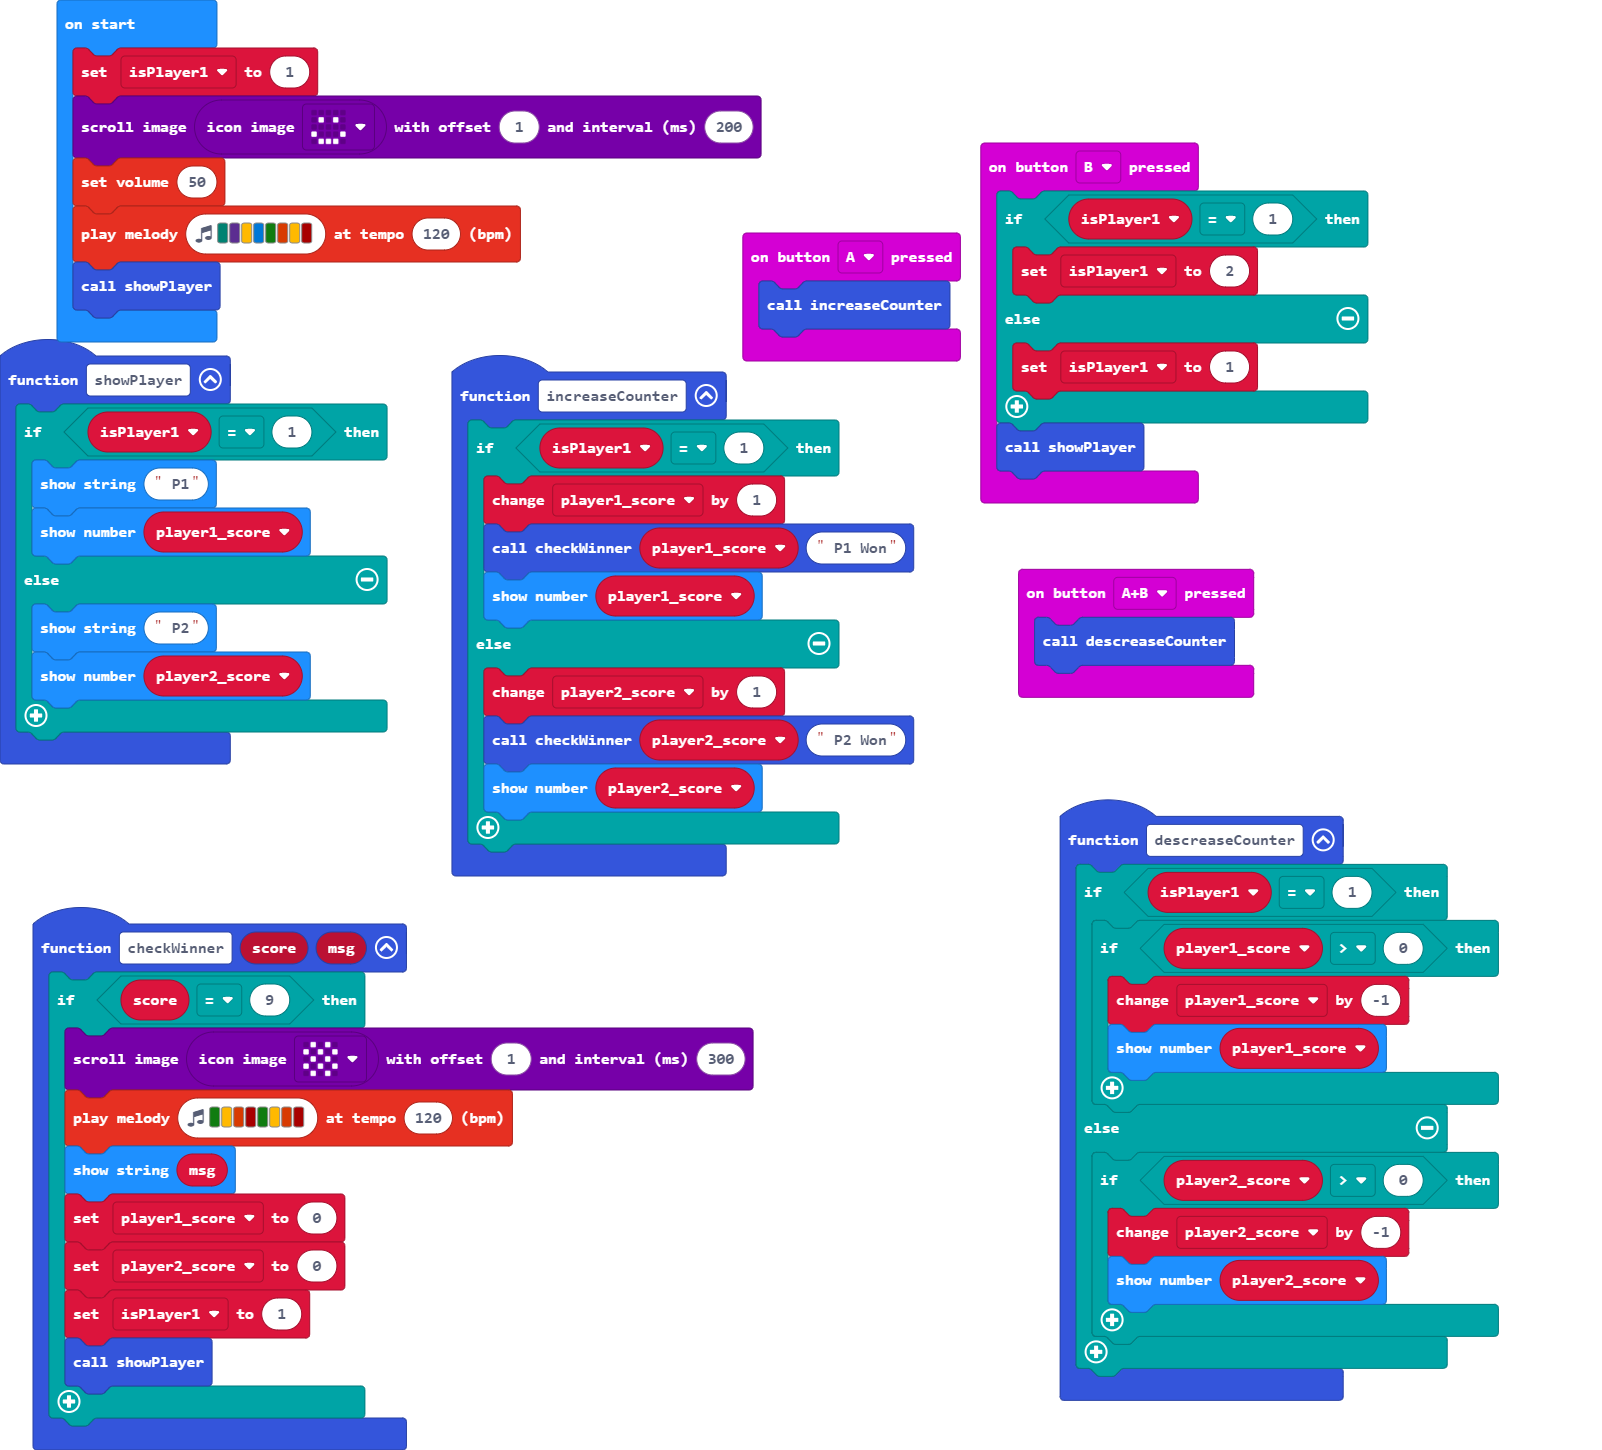
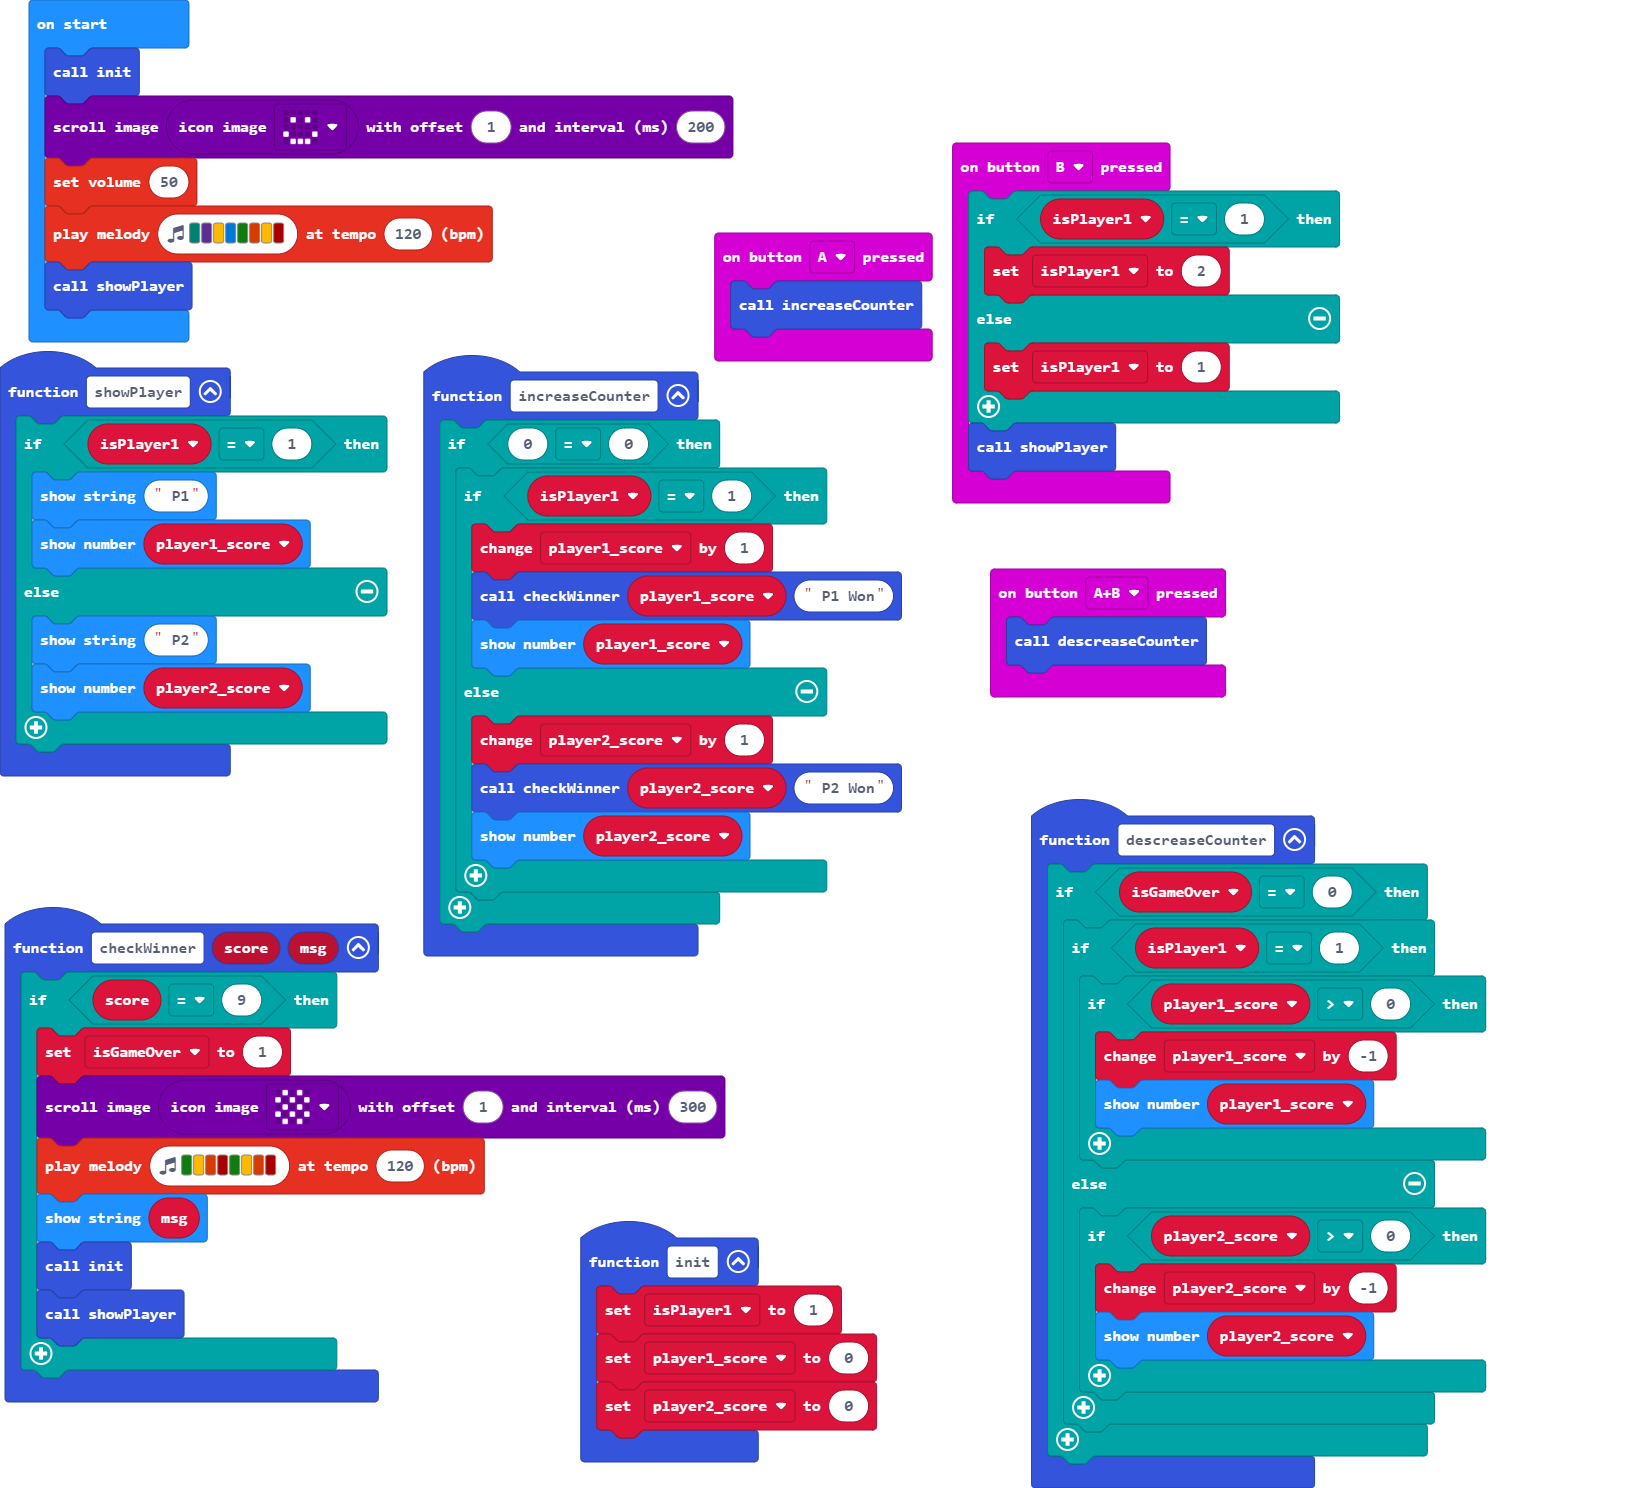
update

diff --git a/main.ts b/main.ts
@@ -1,41 +1,49 @@
 function descreaseCounter () {
-    if (isPlayer1 == 1) {
-        if (player1_score > 0) {
-            player1_score += -1
-            basic.showNumber(player1_score)
-        }
-    } else {
-        if (player2_score > 0) {
-            player2_score += -1
-            basic.showNumber(player2_score)
+    if (isGameOver == 0) {
+        if (isPlayer1 == 1) {
+            if (player1_score > 0) {
+                player1_score += -1
+                basic.showNumber(player1_score)
+            }
+        } else {
+            if (player2_score > 0) {
+                player2_score += -1
+                basic.showNumber(player2_score)
+            }
         }
     }
 }
 function checkWinner (score: number, msg: string) {
     if (score == 9) {
+        isGameOver = 1
         images.iconImage(IconNames.Chessboard).scrollImage(1, 300)
         music.playMelody("G A B C5 G A B C5 ", 120)
         basic.showString(msg)
-        player1_score = 0
-        player2_score = 0
-        isPlayer1 = 1
+        init()
         showPlayer()
     }
 }
 function increaseCounter () {
-    if (isPlayer1 == 1) {
-        player1_score += 1
-        checkWinner(player1_score, " P1 Won")
-        basic.showNumber(player1_score)
-    } else {
-        player2_score += 1
-        checkWinner(player2_score, " P2 Won")
-        basic.showNumber(player2_score)
+    if (0 == 0) {
+        if (isPlayer1 == 1) {
+            player1_score += 1
+            checkWinner(player1_score, " P1 Won")
+            basic.showNumber(player1_score)
+        } else {
+            player2_score += 1
+            checkWinner(player2_score, " P2 Won")
+            basic.showNumber(player2_score)
+        }
     }
 }
 input.onButtonPressed(Button.A, function () {
     increaseCounter()
 })
+function init () {
+    isPlayer1 = 1
+    player1_score = 0
+    player2_score = 0
+}
 input.onButtonPressed(Button.AB, function () {
     descreaseCounter()
 })
@@ -59,7 +67,8 @@ input.onButtonPressed(Button.B, function () {
 let player2_score = 0
 let player1_score = 0
 let isPlayer1 = 0
-isPlayer1 = 1
+let isGameOver = 0
+init()
 images.iconImage(IconNames.Happy).scrollImage(1, 200)
 music.setVolume(50)
 music.playMelody("F D A E G B A C5 ", 120)
